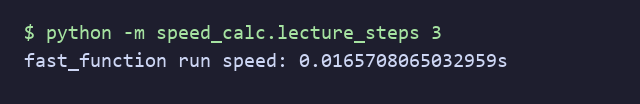
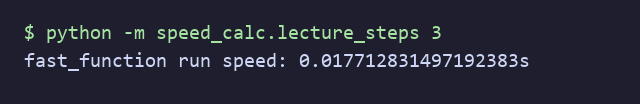
Render screenshots in-process instead of through a subprocess
The OpenGrep scan flagged subprocess.run with a non-literal command in the
screenshot script. The script now runs each step in the same process.

Task: MIL-002#6

Changed region(s): [[0.5312, 0.5192, 0.8438, 0.6635]]

diff --git a/docs/screenshots/generate_screenshots.py b/docs/screenshots/generate_screenshots.py
@@ -1,40 +1,30 @@
 """Render the real output of each lecture step to a PNG file.
 
 Dev-only tool (needs Pillow, installed by `pip install -e ".[dev]"`). It runs
-each command, captures its output and draws it as a terminal image, so no
+each step in-process, captures its output and draws it as a terminal image, so no
 screen is captured and the desktop is never touched.
 
 Usage, from the project root:  python docs/screenshots/generate_screenshots.py
 """
 
-import subprocess
-import sys
+import contextlib
+import io
 from pathlib import Path
 
 from PIL import Image, ImageDraw, ImageFont
 
+from speed_calc.__main__ import main as speed_calc_main
+from speed_calc.lecture_steps import main as lecture_steps_main
+
 OUTPUT_DIR = Path(__file__).resolve().parent
 ROOT = OUTPUT_DIR.parent.parent
-PYTHON = "python"
 
-# (file name, command shown in the prompt, arguments run after the interpreter)
+# (file name, command shown in the prompt, lecture step to run; None = the program)
 SHOTS = [
-    (
-        "step-1-current-time.png",
-        "python -m speed_calc.lecture_steps 1",
-        ["-m", "speed_calc.lecture_steps", "1"],
-    ),
-    (
-        "step-2-decorator-skeleton.png",
-        "python -m speed_calc.lecture_steps 2",
-        ["-m", "speed_calc.lecture_steps", "2"],
-    ),
-    (
-        "step-3-timing-wrapper.png",
-        "python -m speed_calc.lecture_steps 3",
-        ["-m", "speed_calc.lecture_steps", "3"],
-    ),
-    ("step-4-fast-vs-slow.png", "python -m speed_calc", ["-m", "speed_calc"]),
+    ("step-1-current-time.png", "python -m speed_calc.lecture_steps 1", ["1"]),
+    ("step-2-decorator-skeleton.png", "python -m speed_calc.lecture_steps 2", ["2"]),
+    ("step-3-timing-wrapper.png", "python -m speed_calc.lecture_steps 3", ["3"]),
+    ("step-4-fast-vs-slow.png", "python -m speed_calc", None),
 ]
 
 BACKGROUND, FOREGROUND, PROMPT = "#1e1e2e", "#cdd6f4", "#a6e3a1"
@@ -45,22 +35,22 @@ FONT_CANDIDATES = [
 ]
 
 
-def load_font(size: int) -> ImageFont.ImageFont:
+def load_font(size: int) -> ImageFont.FreeTypeFont | ImageFont.ImageFont:
     for candidate in FONT_CANDIDATES:
         if Path(candidate).exists():
             return ImageFont.truetype(candidate, size)
     return ImageFont.load_default()
 
 
-def run(arguments: list[str]) -> str:
-    done = subprocess.run(
-        [sys.executable, *arguments],
-        cwd=ROOT,
-        capture_output=True,
-        text=True,
-        check=True,
-    )
-    return done.stdout.strip()
+def run(step: list[str] | None) -> str:
+    """Run a step in this process and return what it printed."""
+    buffer = io.StringIO()
+    with contextlib.redirect_stdout(buffer):
+        if step is None:
+            speed_calc_main()
+        else:
+            lecture_steps_main(step)
+    return buffer.getvalue().strip()
 
 
 def render(path: Path, command: str, output: str) -> None:
@@ -77,8 +67,8 @@ def render(path: Path, command: str, output: str) -> None:
 
 
 def main() -> None:
-    for name, command, arguments in SHOTS:
-        render(OUTPUT_DIR / name, command, run(arguments))
+    for name, command, step in SHOTS:
+        render(OUTPUT_DIR / name, command, run(step))
         print("wrote", name)
 
 
